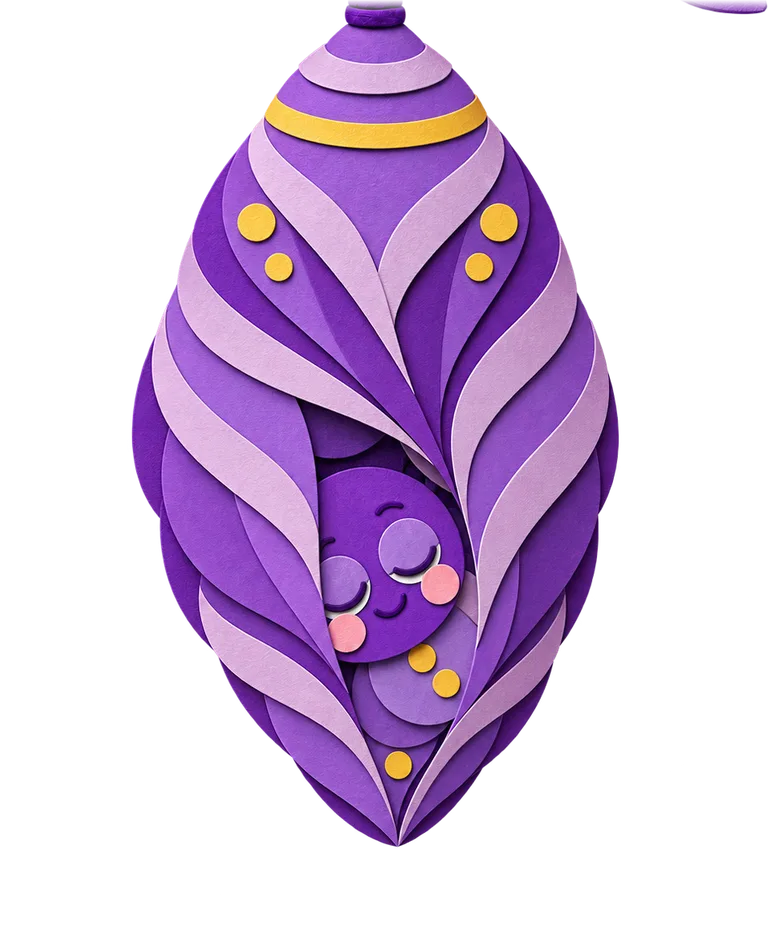
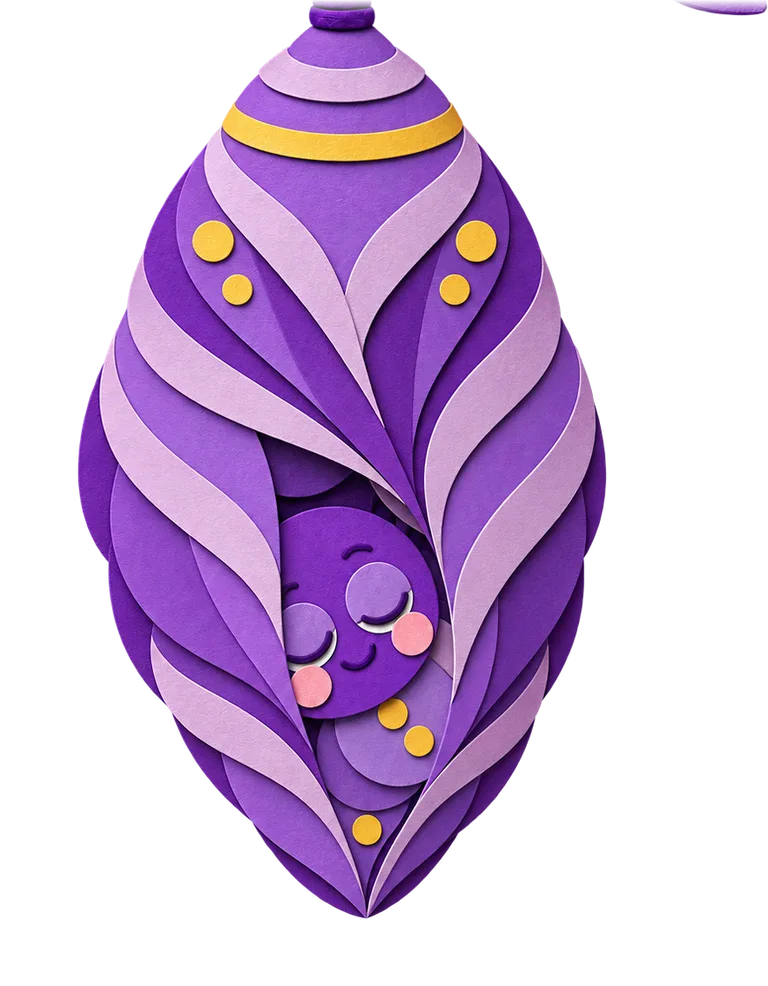
Phone notes, round 2: a caterpillar that bends, and a hatching that holds its size
The caterpillar is cut into its paper pieces (tools/art.py segments) and each
sits on the stem at its own point along the body, so it bends with the vine,
ripples as it goes and hangs straight under its thread. The empty shell is
laid over the shell before it (Codex drew it 17% bigger), and Codex's
open-winged frame is dropped: the butterfly that flies hangs from the shell
from the start.

diff --git a/site/js/story.js b/site/js/story.js
@@ -18,16 +18,28 @@ const DEPTH = { sky: 0.15, hills: 0.4, wisteria: 1.25, meadow: 0.85, ground: 0.8
 // The twig, where the stand-in clip drew its chrysalis drawing, as fractions of a 9:16 box: the vine ends here
 const CHRYSALIS = { left: 0.1246, top: 0.1484, width: 0.7509, ratio: 1392 / 983 };
 // The change's frames share one box (printed by `tools/art.py frames`), in widths of that chrysalis drawing, and the
-// butterfly in the frame where its wings are open, in widths of the frames' box, so the flyer takes over without a jump
-const FRAMES = { left: 0.0366, top: 0.3032, width: 0.9634, ratio: 1.2122 };
-const BUTTERFLY = { left: 0.0195, top: 0.565, width: 0.911, ratio: 779 / 1024 };
+// butterfly, where Codex drew it hanging from the open shell with its wings open, in widths of the frames' box
+const FRAMES = { left: 0.1119, top: 0.3032, width: 0.8881, ratio: 1.2841 };
+const BUTTERFLY = { left: -0.0636, top: 0.6129, width: 0.9882, ratio: 779 / 1024 };
 // Where the scroll moves on to each frame, in screens after the camera stops at the twig: the caterpillar curls up
-// (1–3), the chrysalis (4) holds a little longer, then it glows (5), opens (6–8), and the butterfly leaves it empty (9)
-const POSES = [0.35, 0.65, 0.95, 1.25, 1.65, 1.95, 2.15, 2.35, 2.6];
+// (1–3), the chrysalis (4) holds a little longer, then it glows (5), opens (6–7), and the butterfly hangs from the empty
+// shell with its wings open (8): the one that then flies to her, so nothing changes when it lets go
+const POSES = [0.35, 0.65, 0.95, 1.25, 1.65, 1.95, 2.15, 2.35];
 // The scroll only picks the drawing; it dissolves in over SNAP seconds on its own, so the picture always comes to rest
 // on a whole drawing, however slowly the thumb moves
 const SNAP = 0.3;
 const ZOOM = 1.6;    // the caterpillar grows to the size it's drawn in the frames while it lowers itself on its thread
+// The caterpillar's paper pieces, tail first (printed by `tools/art.py segments`): where each sits along its body, and
+// its box around that point, in widths of the whole caterpillar
+const SEGMENTS = [
+  { at: 0.0920, left: -0.0920, top: -0.0918, width: 0.1846 },
+  { at: 0.2094, left: -0.0942, top: -0.0918, width: 0.1846 },
+  { at: 0.3309, left: -0.0966, top: -0.0918, width: 0.1895 },
+  { at: 0.4497, left: -0.0943, top: -0.0889, width: 0.1846 },
+  { at: 0.5708, left: -0.0942, top: -0.0908, width: 0.1846 },
+  { at: 0.6952, left: -0.0995, top: -0.0928, width: 0.1943 },
+  { at: 0.8650, left: -0.1384, top: -0.2549, width: 0.2734 },
+];
 const LEAVES = [{ x: 0.348, y: 0.228 }, { x: 0.691, y: 0.643 }]; // the vine's two big leaves, as fractions of a tile
 const TILES = 3;                                                   // vine images, one screen each
 
@@ -35,7 +47,7 @@ export function story() {
   const stage = document.querySelector('.stage');
   const $ = s => stage.querySelector(s);
   const world = Object.fromEntries(Object.keys(DEPTH).map(k => [k, k === 'words' ? $('.words') : $(`.world .${k}`)]));
-  const cat = $('.caterpillar'), silk = $('.silk'), night = $('.night'), film = $('.film'), change = $('.change');
+  const cat = $('.caterpillar'), segs = [...cat.children], silk = $('.silk'), night = $('.night'), film = $('.film'), change = $('.change');
   const frames = [...change.children], twig = $('.twig'), flyer = $('.flyer'), flap = $('.flyer img'), hush = $('.hush'), her = $('.her'), two = $('.two'), wings = $('.wings');
   const evening = $('.evening'), track = document.querySelector('.track');
   const still = matchMedia('(prefers-reduced-motion: reduce)').matches;
@@ -93,6 +105,8 @@ export function story() {
       const u = (((y - vTop) / H) % 1 + 1) % 1, f = u * 100, i = Math.min(99, Math.floor(f)), k = f - i;
       return { x: colL + (VINE[i] + (VINE[i + 1] - VINE[i]) * k) * CW, slope: ((VINE[i + 1] - VINE[i]) * CW) / (H / 100) };
     };
+    // the caterpillar's way down: the stem to the vine's end, inside the twig's branch, then its thread from the knot
+    const way = y => (y < vEnd ? stem(y).x : W / 2 + (stem(vEnd).x - W / 2) * Math.max(0, 1 - (y - vEnd) / 40));
     // A line of words passes the caterpillar exactly when it crosses the caterpillar's height on the screen, and the
     // caterpillar is then on the stem at the words' own height. So each line keeps clear of the stem over its height,
     // plus the caterpillar's length above and below and its girth to the side.
@@ -148,7 +162,10 @@ export function story() {
     const fw = BUTTERFLY.width * fr.width;
     const fly0 = { x: fr.left + BUTTERFLY.left * fr.width + fw / 2, y: fr.top + BUTTERFLY.top * fr.width + (fw * BUTTERFLY.ratio) / 2, w: fw };
 
-    px(cat, { left: -catW / 2, top: -catH / 2, width: catW });
+    SEGMENTS.forEach((s, i) => {
+      px(segs[i], { left: s.left * catW, top: s.top * catW, width: s.width * catW });
+      segs[i].style.transformOrigin = `${-s.left * catW}px ${-s.top * catW}px`; // its place on the body
+    });
     const c0 = 0.86 * H, follow = 0.42 * H;
 
     // ---- the timeline, in screens of scroll ----
@@ -189,7 +206,7 @@ export function story() {
     herRise = camHold + 1.1 * H;
     // where the scroll moves on to each drawing: the frames, then the butterfly settled on her back as her wings
     const turns = [...POSES.map(t => t1 + t), tE + 1.4];
-    geometry = { vTop, vEnd, c0, follow, stem, catW, H, W, boxL, tE, t2, camHold, turns };
+    geometry = { vEnd, c0, follow, way, catW, H, W, t2, camHold, turns };
     tl.time(at);
     render();
   }
@@ -206,7 +223,7 @@ export function story() {
   }
 
   function render() {
-    const { vEnd, c0, follow, stem, catW, H, W, t2, camHold, turns } = geometry;
+    const { vEnd, c0, follow, way, catW, H, W, t2, camHold, turns } = geometry;
     const cam = p.cam;
     for (const [k, el] of Object.entries(world)) gsap.set(el, { y: -cam * DEPTH[k] });
     gsap.set(twig, { y: camHold - cam });
@@ -214,18 +231,18 @@ export function story() {
     // the dawn garden leaves the screen early on; stop painting it once it's gone
     for (const k of ['sky', 'hills', 'wisteria', 'meadow', 'blossoms']) world[k].style.visibility = cam > 1.6 * H ? 'hidden' : '';
 
-    // the caterpillar rides the vine until it reaches the middle of the screen, then the camera follows it down
-    const cy = Math.max(c0, cam + follow);
-    const grow = ((p.zoom - 1) * catW) / 2; // near the end it grows, from its tail, so it stays on the vine and the thread
-    if (cy < vEnd) {
-      const { x, slope } = stem(cy + grow);
-      const inch = still ? 0 : Math.sin(cam / 26);
-      gsap.set(cat, { x, y: cy + grow - cam, rotation: 90 - (Math.atan(slope) * 180) / Math.PI, scaleX: p.zoom * (1 + 0.05 * inch), scaleY: p.zoom * (1 - 0.04 * inch) });
-      silk.style.height = '0px';
-    } else { // past the end of the vine: hanging from the twig on a thread, head down
-      gsap.set(cat, { x: W / 2, y: cy + grow - cam, rotation: 90, scale: p.zoom });
-      Object.assign(silk.style, { left: `${W / 2}px`, top: `${vEnd - cam}px`, height: `${Math.max(0, cy - catW / 2 - vEnd)}px` });
-    }
+    // the caterpillar rides the vine until it reaches the middle of the screen, then the camera follows it down. Each
+    // of its pieces sits on the way at its own place along the body, so it bends with the stem, then hangs straight
+    // from its thread; a ripple runs through it from tail to head as it goes. Near the end it grows, from its tail, so
+    // it stays on the vine and the thread
+    const tail = Math.max(c0, cam + follow) - catW / 2, long = catW * p.zoom;
+    let y = tail, x = way(y), s = 0;
+    SEGMENTS.forEach((seg, i) => {
+      const d = seg.at * long + (still ? 0 : 0.012 * long * Math.sin(cam / 26 - 0.9 * i));
+      for (; s < d; y++) { const n = way(y + 1); s += Math.hypot(n - x, 1); x = n; }
+      gsap.set(segs[i], { x, y: y - cam, rotation: (Math.atan2(2, way(y + 1) - way(y - 1)) * 180) / Math.PI, scale: p.zoom });
+    });
+    Object.assign(silk.style, { left: `${W / 2}px`, top: `${vEnd - cam}px`, height: `${Math.max(0, tail - vEnd)}px` });
 
     const n = turns.filter(t => tl.time() >= t).length;
     if (n !== shown) show(n);

diff --git a/site/index.html b/site/index.html
@@ -56,12 +56,12 @@
 
     <div class="night"></div>
     <div class="silk"></div>
-    <img class="caterpillar" src="img/caterpillar.webp" width="1024" height="393" alt="">
+    <div class="caterpillar"><img src="img/caterpillar/1.webp" width="189" height="223" alt=""><img src="img/caterpillar/2.webp" width="189" height="225" alt=""><img src="img/caterpillar/3.webp" width="194" height="224" alt=""><img src="img/caterpillar/4.webp" width="189" height="222" alt=""><img src="img/caterpillar/5.webp" width="189" height="224" alt=""><img src="img/caterpillar/6.webp" width="199" height="227" alt=""><img src="img/caterpillar/7.webp" width="280" height="391" alt=""></div>
     <div class="film">
       <img class="twig" src="img/twig.webp" width="983" height="313" alt="">
       <!-- the change, frame by frame: it curls up and the chrysalis closes round it; the chrysalis glows, opens, and a
            butterfly climbs out and spreads its wings (art.py frames) -->
-      <div class="change"><img data-src="img/change/1.webp" alt=""><img data-src="img/change/2.webp" alt=""><img data-src="img/change/3.webp" alt=""><img data-src="img/change/4.webp" alt=""><img data-src="img/change/5.webp" alt=""><img data-src="img/change/6.webp" alt=""><img data-src="img/change/7.webp" alt=""><img data-src="img/change/8.webp" alt=""><img data-src="img/change/9.webp" alt=""></div>
+      <div class="change"><img data-src="img/change/1.webp" alt=""><img data-src="img/change/2.webp" alt=""><img data-src="img/change/3.webp" alt=""><img data-src="img/change/4.webp" alt=""><img data-src="img/change/5.webp" alt=""><img data-src="img/change/6.webp" alt=""><img data-src="img/change/7.webp" alt=""><img data-src="img/change/8.webp" alt=""></div>
       <div class="flyer"><img src="img/butterfly-a.webp" width="1024" height="779" alt=""></div>
     </div>
     <p class="line hush">Lately, something has been changing…</p>

diff --git a/site/css/site.css b/site/css/site.css
@@ -45,7 +45,8 @@ p { margin: 0; }
 .world .foliage::before { content: ""; position: absolute; left: 0; bottom: 100%; width: 100%; aspect-ratio: 2 / 3; background: url(../img/foliage-top.webp) top / 100% auto no-repeat; } /* the first tile: the foliage starts here */
 .night { inset: 0; z-index: 2; background: var(--dusk); opacity: 0; pointer-events: none; }
 .silk { z-index: 3; width: 2px; margin-left: -1px; background: rgb(200 162 200 / .8); }
-.caterpillar { z-index: 4; left: 0; top: 0; max-width: none; height: auto; }
+.caterpillar { z-index: 4; left: 0; top: 0; }
+.caterpillar img { position: absolute; max-width: none; height: auto; }
 .film { z-index: 6; transform-origin: 50% 30%; }
 .film > * { position: absolute; max-width: none; height: auto; }
 /* drawings wait hidden and fully transparent, so fading one out never shows it (js/story.js shows one at a time) */

diff --git a/tools/art.py b/tools/art.py
@@ -3,12 +3,16 @@
 
   tools/art.py layer     <raw.png> <name>   crop to the artwork's rows; prints its --top (% of the frame) for index.html
   tools/art.py sprite    <raw.png> <name> [width]   crop to the artwork's box (1024 px wide unless given)
+  tools/art.py segments  <raw.png> <name>   the caterpillar cut into its paper pieces, tail first, so the page can bend it
+                                             along the vine: writes site/img/<name>/<n>.webp and prints where each one
+                                             sits on the body, for js/story.js
   tools/art.py butterfly <raw.png> <name>   centre the body line at exactly 50%; also writes <name>-sm (256 px, for the
                                              small flying ones)
   tools/art.py frames    <name> <raw.png…>  the change's stop-motion frames: lay each one's twig exactly over the chrysalis
-                                             drawing's, cut the twig off (the page draws one twig under them all), crop
-                                             them to one shared box and write site/img/<name>/<n>.webp; prints the box
-                                             in widths of the chrysalis sprite, for js/story.js
+                                             drawing's (the last, the empty shell, over the shell of the one before it),
+                                             cut the twig off (the page draws one twig under them all), crop them to one
+                                             shared box and write site/img/<name>/<n>.webp; prints the box in widths of
+                                             the chrysalis sprite, for js/story.js
   tools/art.py tile      <raw.png> <name> [repaired.png]   a tile that repeats down the page without a seam. Without
                                              repaired.png it writes art/raw/<name>-rolled.png, the tile with its seam
                                              moved to the middle, for Codex to repair (art/prompts/foliage-seam.txt).
@@ -28,6 +32,7 @@ from PIL import Image
 CHRYSALIS = "art/raw/chrysalis.png"  # the frame the twig sprite was cut from: its box is (21, 25) + 983 wide
 TWIG = (25, 300)   # its rows that hold only the twig and its leaves, to register by
 CUT = (322, 338)   # the twig sprite ends at 338; each frame fades in over these rows, below the knot
+SHELL = (338, 880) # the open shell's rows, from the knot to its widest, above the butterfly's wings
 
 
 def opaque(im):
@@ -54,6 +59,51 @@ def sprite(im, name, width=1024):
     export(im.crop(Image.fromarray(opaque(im)).getbbox()), name, width)
 
 
+def segments(im, name):
+    """Each round body segment is the circle through its top edge; the head, in front, the circle through its edges
+    left and right of the body's line (its left one is the darkest pixel, its shadow). Every pixel goes to the
+    front-most circle it's in or just outside of (the next segment covers the one before), or else the circle whose
+    edge is nearest (the feet, the antennae). Each segment's part hidden under the next is filled in its own paper colour, so a bend
+    never shows a hole."""
+    im = im.crop(Image.fromarray(opaque(im)).getbbox())
+    im = im.resize((1024, round(im.height * 1024 / im.width)), Image.LANCZOS)
+    px = np.asarray(im).copy()
+    a = px[..., 3] > 128
+    top = np.array([np.argmax(c) if c.any() else len(c) for c in a.T])
+
+    def circle(pts):
+        x, y = np.array(pts, float).T
+        cx, cy, c = np.linalg.lstsq(np.c_[2 * x, 2 * y, np.ones_like(x)], x * x + y * y, rcond=None)[0]
+        return cx, cy, np.sqrt(c + cx * cx + cy * cy)
+    tail = np.argmax(top < len(a))
+    head = tail + 20 + np.argmax(np.diff(top[tail + 20:]) < -40)              # the antennae rise: the head starts here
+    hills = [x for x in range(tail + 12, head - 12) if top[x] == top[x - 12:x + 13].max() > max(top[x - 12], top[x + 12])]
+    dips = [x for i, x in enumerate(hills) if not i or x - hills[i - 1] > 5]  # where one segment's top meets the next
+    edges = [tail] + dips + [head]
+    discs = [circle([(x, top[x]) for x in range(l + 6, r - 6)]) for l, r in zip(edges, edges[1:])]
+    axis = np.mean([c[1] for c in discs])
+    r = np.mean([c[2] for c in discs])
+    cx = discs[-1][0]
+    lum = px[..., :3].astype(int).sum(-1)
+    rows = range(round(axis - 0.6 * r), round(axis + 0.6 * r))
+    head = circle([(cx + np.argmin(lum[y, round(cx):round(cx + r)]) + 3, y) for y in rows] + [(np.where(a[y])[0].max(), y) for y in rows])
+    circles = discs + [head]
+
+    yy, xx = np.mgrid[:a.shape[0], :a.shape[1]]
+    d = np.stack([np.hypot(xx - x, yy - y) - rr for x, y, rr in circles])
+    inside = d <= 6  # with the thin shadow round each piece's edge
+    owner = np.where(inside.any(0), len(circles) - 1 - np.argmax(inside[::-1], 0), np.argmin(d, 0))
+    for k, (x, y, rr) in enumerate(circles, 1):
+        piece = px.copy()
+        piece[..., 3] = np.where((owner == k - 1) & opaque(im), px[..., 3], 0)
+        hidden = (d[k - 1] <= 1) & inside[k:].any(0)
+        piece[hidden] = [*np.median(px[(owner == k - 1) & (d[k - 1] < -10)][:, :3], 0), 255]
+        p = Image.fromarray(piece, "RGBA")
+        box = p.getbbox()
+        export(p.crop(box), f"{name}/{k}")
+        print(f"  {{ at: {x / 1024:.4f}, left: {(box[0] - x) / 1024:.4f}, top: {(box[1] - axis) / 1024:.4f}, width: {(box[2] - box[0]) / 1024:.4f} }},")
+
+
 def butterfly(im, name):
     a = opaque(im)
     cols, rows = np.where(a.any(axis=0))[0], np.where(a.any(axis=1))[0]
@@ -70,25 +120,25 @@ def scaled(im, s, dx, dy, resample=Image.BICUBIC):
     return im.transform(im.size, Image.AFFINE, (1 / s, 0, cx - (cx + dx) / s, 0, 1 / s, -dy / s), resample)
 
 
-def register(ref, im):
-    """The scale and shift that lay im's twig over ref's: the best overlap of their twig rows, searched coarsely at
-    quarter size, then finely around that."""
+def register(ref, im, rows=TWIG):
+    """The scale and shift that lay im over ref: the best overlap of these rows (the twig's, unless given), searched
+    coarsely at quarter size, then finely around that."""
     def iou(m, t, rows):
         band = m[rows[0]:rows[1]]
         return (band & t).sum() / max(1, (band | t).sum())
-    q, rows = 4, (TWIG[0] // 4, TWIG[1] // 4)
+    q, quarter = 4, (rows[0] // 4, rows[1] // 4)
     small = lambda a: Image.fromarray(a.astype(np.uint8) * 255).resize((a.shape[1] // q, a.shape[0] // q), Image.BILINEAR)
-    target, f = np.asarray(small(opaque(ref)))[rows[0]:rows[1]] > 127, small(opaque(im))
+    target, f = np.asarray(small(opaque(ref)))[quarter[0]:quarter[1]] > 127, small(opaque(im))
     best = (0, 1, 0, 0)
     for s in np.arange(0.8, 1.201, 0.01):
         m = np.asarray(scaled(f, s, 0, 0, Image.BILINEAR)) > 127
-        best = max([best] + [(iou(np.roll(m, (dy, dx), (0, 1)), target, rows), s, dx * q, dy * q)
+        best = max([best] + [(iou(np.roll(m, (dy, dx), (0, 1)), target, quarter), s, dx * q, dy * q)
                              for dy in range(-20, 21) for dx in range(-20, 21)])
     _, s0, dx0, dy0 = best
-    target = opaque(ref)[TWIG[0]:TWIG[1]]
+    target = opaque(ref)[rows[0]:rows[1]]
     for s in np.arange(s0 - 0.01, s0 + 0.0101, 0.0025):
         m = opaque(scaled(im, s, 0, 0, Image.BILINEAR))
-        best = max([best] + [(iou(np.roll(m, (dy, dx), (0, 1)), target, TWIG), s, dx, dy)
+        best = max([best] + [(iou(np.roll(m, (dy, dx), (0, 1)), target, rows), s, dx, dy)
                              for dy in range(dy0 - 4, dy0 + 5) for dx in range(dx0 - 4, dx0 + 5)])
     return best
 
@@ -96,9 +146,10 @@ def register(ref, im):
 def frames(name, srcs):
     ref = Image.open(CHRYSALIS).convert("RGBA")
     out = []
-    for src in srcs:
+    for i, src in enumerate(srcs, 1):
         im = Image.open(src).convert("RGBA").resize(ref.size, Image.LANCZOS)
-        fit, s, dx, dy = register(ref, im)
+        # Codex draws the empty shell a little bigger than the shell it was drawn from, so it's laid over that one
+        fit, s, dx, dy = register(out[-1], im, SHELL) if i == len(srcs) else register(ref, im)
         print(f"{src}: twig overlap {fit:.3f}, scale {s:.4f}, shift {dx},{dy}")
         px = np.asarray(scaled(im, s, dx, dy)).copy()
         fade = np.clip((np.arange(ref.height) - CUT[0]) / (CUT[1] - CUT[0]), 0, 1)
@@ -157,4 +208,4 @@ if __name__ == "__main__":
         tile(*sys.argv[2:])
     else:
         src, name, *size = sys.argv[2:]
-        {"layer": layer, "sprite": sprite, "butterfly": butterfly}[mode](Image.open(src).convert("RGBA"), name, *map(int, size))
+        {"layer": layer, "sprite": sprite, "segments": segments, "butterfly": butterfly}[mode](Image.open(src).convert("RGBA"), name, *map(int, size))

diff --git a/BRIEF.md b/BRIEF.md
@@ -42,7 +42,7 @@ Your direction (2026-10-22): *"The website should start with a garden, when scro
 
 So the page is one story on one pinned picture (`uniqueness.md` §2.4, continuous world), with one camera and one character from the first screen to her portrait, then two ordinary sections over the same garden. The earlier versions failed this in the same way: every scene was its own picture, so it felt stitched, whatever moved between them.
 
-- **No video legs.** scroll-craft's worldflight mode crossfades video clips; here the world is our layered paper art moved live, and the transformation is played frame by frame from nine Codex drawings, like paper stop-motion. Its guidance for bespoke stages applies: the stage publishes what it draws in `data-sc-verify-state`, so the harness can check it.
+- **No video legs.** scroll-craft's worldflight mode crossfades video clips; here the world is our layered paper art moved live, and the transformation is played frame by frame from eight Codex drawings, like paper stop-motion. Its guidance for bespoke stages applies: the stage publishes what it draws in `data-sc-verify-state`, so the harness can check it.
 - **Navigation:** none (unchanged).
 - **The one place it stops:** when she has her wings. That's the end of the story, and you said a stop there is fine.
 
@@ -78,9 +78,9 @@ Timeline time is screens of scroll, and nothing smooths or delays it, so it move
 | Piece | State |
 |---|---|
 | Dawn garden (5 layers) | Approved, reused |
-| Vine, near foliage, paper caterpillar | Drawn by Codex 2026-10-22 for this story; stem line traced so the caterpillar crawls exactly on it. The foliage's seam was repaired by Codex (`tools/art.py tile`) so it repeats without a line; the vine's stem ends inside the twig's branch |
+| Vine, near foliage, paper caterpillar | Drawn by Codex 2026-10-22 for this story; stem line traced so the caterpillar crawls exactly on it. The caterpillar is cut into its paper pieces (`tools/art.py segments`), each placed on the stem at its own point along the body, so it bends with the vine and hangs straight from its thread. The foliage's seam was repaired by Codex (`tools/art.py tile`) so it repeats without a line; the vine's stem ends inside the twig's branch |
 | Twig | Cut from the chrysalis drawing; the frames hang from its knot |
-| The change | Nine Codex drawings (2026-10-22), each drawn from the one before it: J, curling up, wrapped, chrysalis, glowing, crumpled wings, half open, open, the empty shell. `tools/art.py frames` lines each one up on the twig. The scroll picks the drawing and it dissolves in over 0.3 s on its own, so the picture always rests on a whole drawing |
+| The change | Eight Codex drawings (2026-10-22), each drawn from the one before it: J, curling up, wrapped, chrysalis, glowing, crumpled wings, half open, then the empty shell with the butterfly that flies to her hanging from it (Codex's own open-winged drawing is dropped: its shell and butterfly didn't match the ones after it). `tools/art.py frames` lines each one up on the twig, and the empty shell on the shell before it. The scroll picks the drawing and it dissolves in over 0.3 s on its own, so the picture always rests on a whole drawing |
 | The four memories | Baby drawing sheet from `b1`, `b2`, `b4`, `b5` and her drawing sheet B (`art/raw/baby-sheet-a.png`), awaiting your approval; four paper medallions drawn from it: gummy smile, serious stare, a long story, finger heart |
 | Her portrait | Version A; the butterfly lands on its wings |
 | Evening garden | The dawn layers under a dusk wash |
@@ -107,7 +107,7 @@ As before: no scroll hint, no emoji icons, no identical cards, balanced headline
 Each step is its own branch, compared on your phone and merged only when you say so.
 
 1. **The story with stand-in art** (branch `feat/one-story`): judge the feel, especially the stop at the twig and that it reads as one story.
-2. **The change, done properly:** done on `feat/story-art`, nine drawings played frame by frame.
+2. **The change, done properly:** done on `feat/story-art`, nine drawings played frame by frame (eight since `fix/phone-notes-2`).
 3. **The signature butterflies.**
 4. **Year one:** done on `feat/story-art`, the baby drawing sheet and the four memory pictures.
 5. **Details and close polish,** then milestones 3 to 6 from `PROGRESS.md`.

diff --git a/PROGRESS.md b/PROGRESS.md
@@ -26,6 +26,7 @@ Last updated 2026-10-22.
 | `852714d` (branch `feat/one-story`) | One story: the caterpillar's journey on one pinned picture, with stand-in art | "So far satisfied… just as I expected" (2026-10-22) |
 | branch `feat/story-art` (`50afda0`) | The stand-ins replaced: the change as nine Codex drawings played frame by frame (the caterpillar grows on its thread to their size); a baby drawing sheet and four memory pictures from it; `tools/art.py frames` | Merged. "The baby pictures are on point… the change is perfect smooth no jumps" (2026-10-22) |
 | branch `fix/phone-notes` (`63dca74`) | Your three notes: the foliage repeated with a hard line once a screen (repaired by Codex into a seamless tile) and the vine ended above the twig; a white bar under the page on Android when the address bar hides (the stage now reaches the large viewport); drawings resting half-dissolved on a slow scroll (now each dissolves in on its own clock). Found on the way: the close's drifting butterflies could make the page a little wider than a phone, so it slid sideways (they're clipped now); the layout audit now judges a fresh page and fails on a drawing resting half-dissolved or more than two drawings showing at once | Merged. "The foliage seam is gone… the white bar is gone on my android phone… mid-change settles cleanly" (2026-10-22) |
+| branch `fix/phone-notes-2` | Your notes, round 2: the caterpillar is cut into its paper pieces, each on the stem at its own point along the body, so it bends around the vine's curves, ripples gently as it goes, and hangs straight under its thread (it hung beside it: the old picture's middle was on the thread, not its body); the hatching no longer jumps in size (Codex drew the empty shell 17% bigger, and its open-winged butterfly differed from the one that flies; now the shell is laid over the one before it, and the flying butterfly hangs from it from the start) | Awaiting your phone check |
 
 ## Decisions made with you (don't reopen without asking)
 
@@ -42,7 +43,7 @@ Last updated 2026-10-22.
 
 Each is its own branch, approved before merge. Details in `BRIEF.md`.
 
-1. **Phone notes, round 2** (2026-10-22): the hanging caterpillar sits left of its thread; it's stiff around the vine's curves; the hatching drawings change size (drawing 4 → 5 → 6).
+1. **Phone notes, round 2** (2026-10-22): on `fix/phone-notes-2`, awaiting your phone check.
 2. **Signature butterflies:** the first scroll touch releases one, taps add more; they follow the caterpillar, gather at the twig, and settle around "Tell us you're coming".
 3. **Details and close polish.**
 4. **iPhone check.** Ask which iOS version.
@@ -78,7 +79,7 @@ Each is its own branch, approved before merge. Details in `BRIEF.md`.
 - **scroll-craft:** the reference repo isn't vendored. Clone it with `git clone --depth 50 https://github.com/nateherkai/scroll-craft` into a scratch folder to read `SKILL.md`, its references, or run `scripts/shoot.mjs` (run from this repo so `playwright-core` resolves). The engine files get copied into `site/` unedited.
 - **Art:**
   - `tools/gen.sh <prompt> <out> [reference images…]` runs Codex image generation on your ChatGPT plan, with no API key. Prompts live in `art/prompts/`, outputs go to `art/raw/` (git-ignored), and the style paragraph is prepended from `art/STYLE.md`.
-  - `tools/art.py layer|sprite|butterfly|frames` exports WebPs into `site/img/`; `frames` lines the change's drawings up on the twig and prints their box for `js/story.js`. It needs `.venv` with Pillow and numpy.
+  - `tools/art.py layer|sprite|segments|butterfly|frames` exports WebPs into `site/img/`; `frames` lines the change's drawings up on the twig and prints their box for `js/story.js`; `segments` cuts the caterpillar into its pieces and prints where each sits. It needs `.venv` with Pillow and numpy.
   - Codex's image tool takes at most 5 reference images.
 - **Her photos:**
   - The originals live only in `art/private/` (git-ignored, never deployed): `t1`–`t3` are recent, `t01`–`t06` are from before she turned one.
